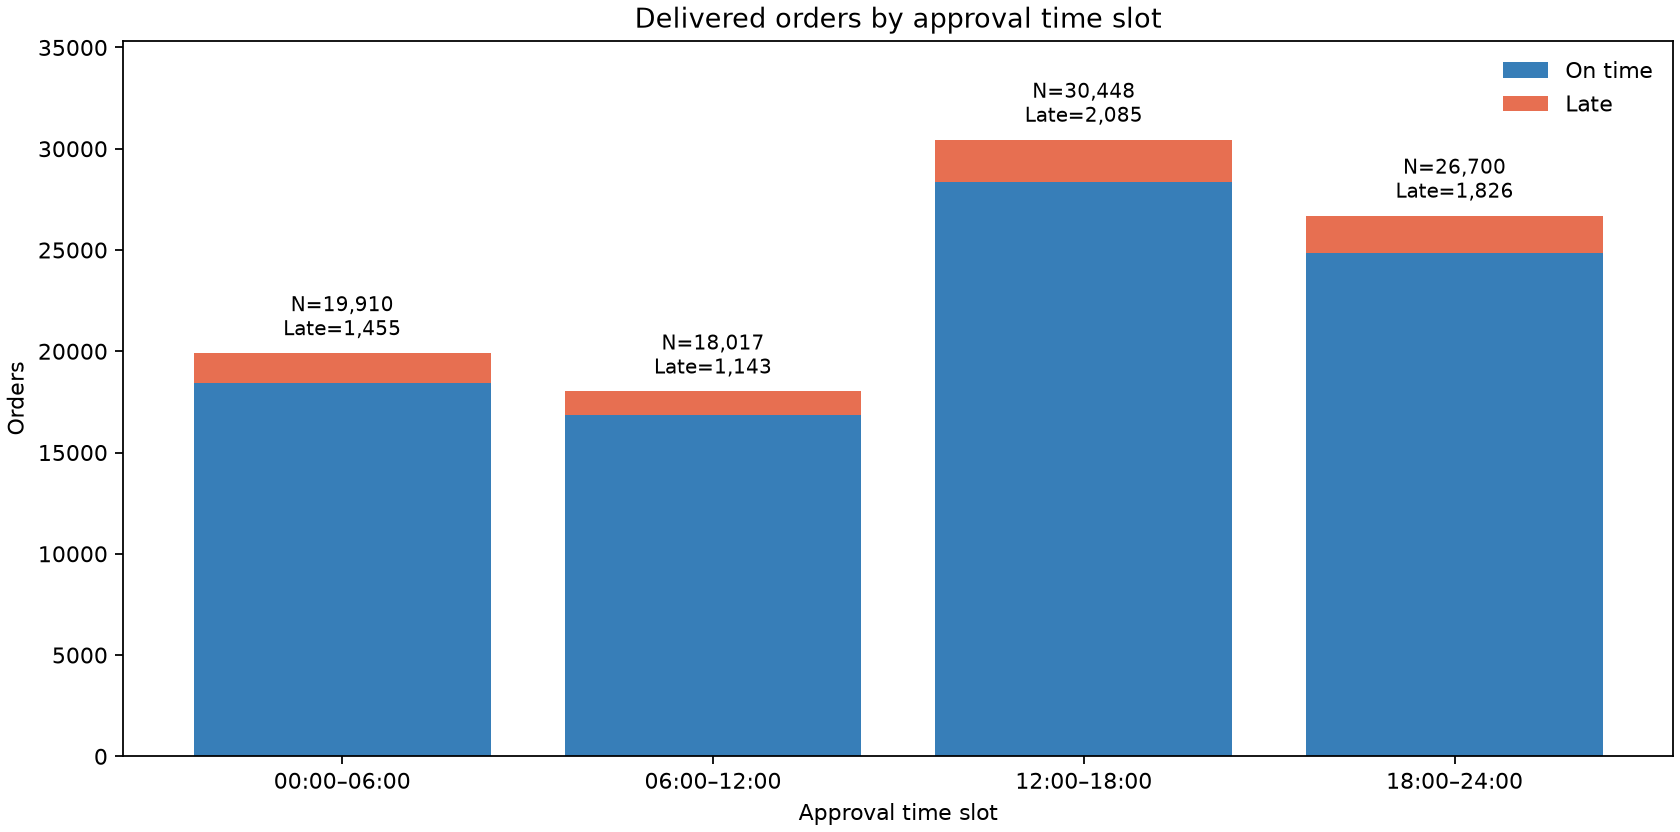
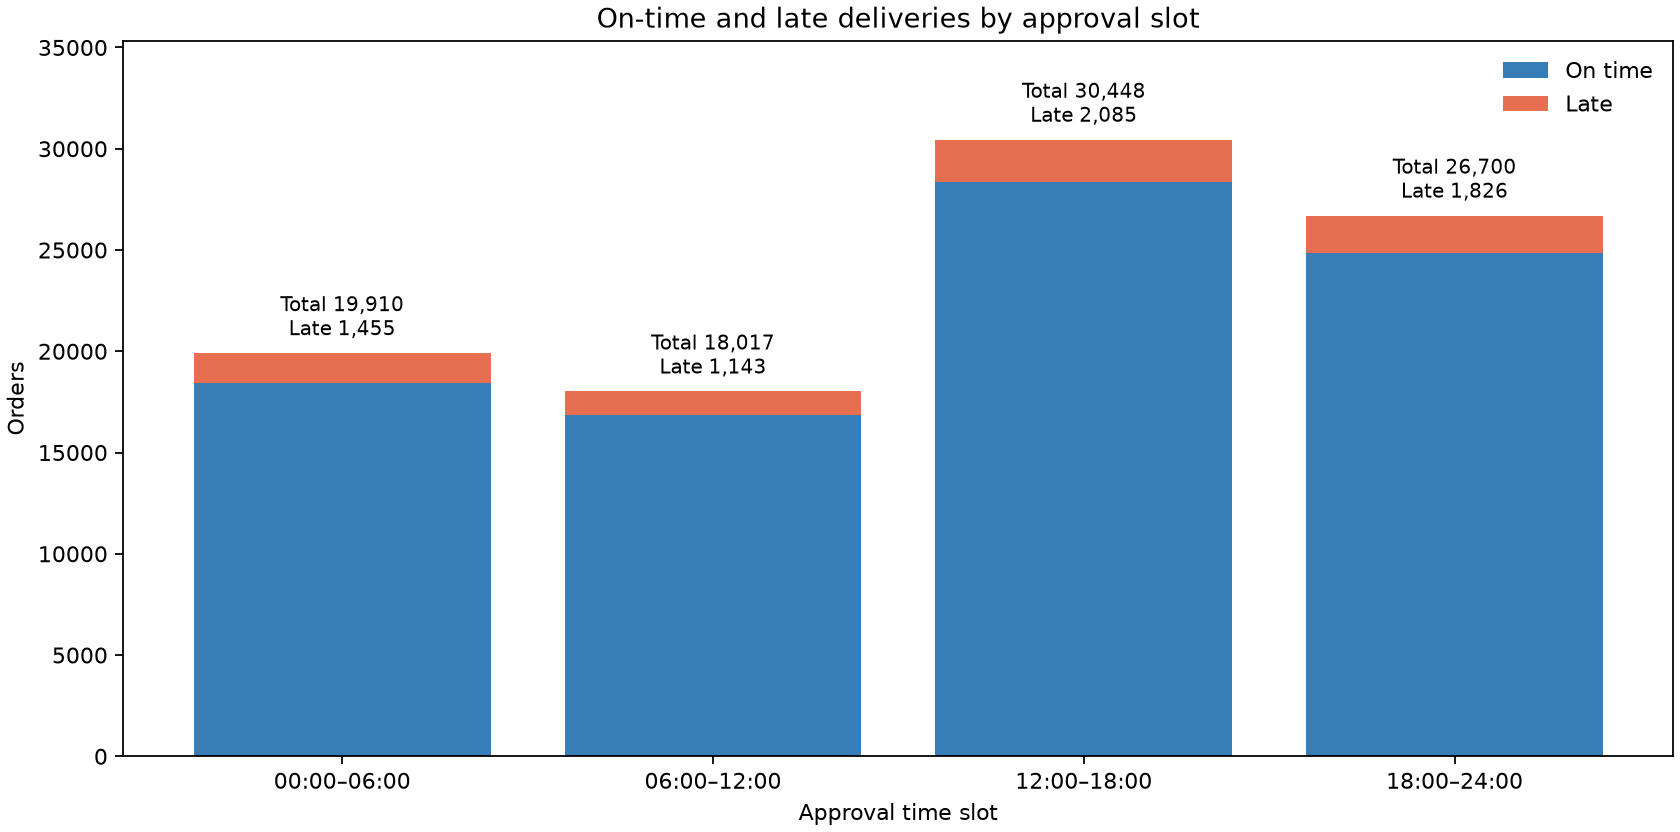
refactor(analysis): clarify figure labels

diff --git a/src/analysis/investigation_plots.py b/src/analysis/investigation_plots.py
@@ -6,6 +6,9 @@ import numpy as np
 from .orders import SLOT_LABELS
 
 
+ELIGIBLE_DAY_NOTE = "Eligible hours count Mon–Fri, excluding 1 Jan, 1 May and 25 Dec (24 hours per full eligible day)."
+
+
 def plot_route_slot_rates(slots):
     """Compare intra/inter late rates with each cell's order denominator."""
     figure, ax = plt.subplots(figsize=(12, 5.8), layout="constrained")
@@ -24,8 +27,10 @@ def plot_route_slot_rates(slots):
                             textcoords="offset points", ha="center", fontsize=8)
     ax.set_xticks(range(len(SLOT_LABELS)), SLOT_LABELS)
     ax.set_xlabel("Approval time slot")
-    ax.set_ylabel("Late orders / route-slot orders (%)")
-    ax.set_title("Late delivery rate by route type and approval slot")
+    ax.set_ylabel("Late deliveries (% of orders)")
+    ax.set_title("Intra-state and inter-state late delivery rates by approval slot")
+    figure.supxlabel("N = orders in each route and slot. Routes compare seller and customer states across all items.",
+                     fontsize=9)
     ax.margins(y=0.18)
     ax.legend(frameon=False)
     return figure
@@ -33,13 +38,13 @@ def plot_route_slot_rates(slots):
 
 def plot_route_transit_time(transit):
     """Compare median carrier-to-customer hours for known single-route groups."""
-    figure, axes = plt.subplots(1, 2, figsize=(12, 5.4), layout="constrained")
+    figure, axes = plt.subplots(1, 2, figsize=(12, 5.4), sharey=True, layout="constrained")
     routes = ("Intra-state", "Inter-state")
     rows = transit.set_index("route_type").reindex(routes)
     colors = ("#377eb8", "#e76f51")
     for ax, column, title in zip(
         axes, ("median_calendar_hours", "median_eligible_hours"),
-        ("Recorded elapsed hours", "Eligible-day hours"),
+        ("Elapsed transit time", "Transit time on eligible days"),
     ):
         values = rows[column].to_numpy(dtype=float, na_value=np.nan)
         ax.bar(routes, values, color=colors, width=0.55)
@@ -54,7 +59,8 @@ def plot_route_transit_time(transit):
         ax.set_title(title)
         ax.set_ylabel("Median hours per evaluated order")
         ax.margins(y=0.18)
-    figure.suptitle("Carrier handoff to customer delivery by route type")
+    figure.suptitle("Median time from carrier handoff to delivery by route type")
+    figure.supxlabel("N = orders with a valid transit interval. " + ELIGIBLE_DAY_NOTE, fontsize=9)
     return figure
 
 
@@ -70,11 +76,13 @@ def plot_monthly_slot_rates(monthly):
     axes[0].set_ylabel("Late orders / slot orders (%)")
     axes[0].set_ylim(bottom=0)
     axes[0].legend(ncols=4, frameon=False)
-    axes[0].set_title("Late rates by purchase month and approval slot")
+    figure.suptitle("Delivery outcomes by purchase month and approval slot")
+    axes[0].set_title("Monthly late delivery rates (full range)")
     axes[1].set_ylim(0, 25)
     axes[1].set_ylabel("Late rate (%)")
-    axes[1].set_title("Rate detail, 0-25% display window; full range above")
+    axes[1].set_title("Monthly late delivery rates (0–25% scale)")
     axes[2].set_ylabel("Orders in slot")
+    axes[2].set_title("Monthly order counts by approval slot")
     axes[2].set_xlabel("Purchase month")
     axes[2].set_xticks(range(len(months)), months, rotation=65)
     return figure
@@ -86,15 +94,17 @@ def plot_matched_years(table):
     for position, year in enumerate((2017, 2018)):
         rows = table.loc[table["year"].eq(year)].set_index("approval_slot").reindex(SLOT_LABELS)
         x = np.arange(4) + (position - 0.5) * 0.36
-        ax.bar(x, rows["late_rate_pct"].fillna(0).to_numpy(dtype=float), width=0.36, label=str(year))
+        ax.bar(x, rows["late_rate_pct"].to_numpy(dtype=float, na_value=np.nan), width=0.36, label=str(year))
         for i, row in enumerate(rows.itertuples()):
-            if row.orders:
-                ax.annotate(f"N={row.orders:,}", (x[i], row.late_rate_pct),
-                            xytext=(0, 4), textcoords="offset points", ha="center", fontsize=8)
+            height = row.late_rate_pct if row.orders else 0
+            ax.annotate(f"N={row.orders:,}", (x[i], height),
+                        xytext=(0, 4), textcoords="offset points", ha="center", fontsize=8)
     ax.set_xticks(range(4), SLOT_LABELS)
     ax.set_xlabel("Approval time slot")
     ax.set_ylabel("Late orders / slot orders (%)")
-    ax.set_title("Same purchase months, January-July")
+    ax.set_title("Late delivery rate by approval slot for January–July purchases in 2017 and 2018")
+    figure.supxlabel("N = orders in each approval slot during the seven purchase months of each year",
+                     fontsize=9)
     ax.margins(y=0.18)
     ax.legend(frameon=False)
     return figure
@@ -102,7 +112,7 @@ def plot_matched_years(table):
 
 def plot_stage_comparison(summary, stage):
     """Compare late and on-time medians using both elapsed-hour conventions."""
-    figure, axes = plt.subplots(1, 2, figsize=(13, 5.3), layout="constrained")
+    figure, axes = plt.subplots(1, 2, figsize=(13, 5.3), sharey=True, layout="constrained")
     for ax, column, title in zip(axes, ("median_calendar_hours", "median_eligible_hours"),
                                 ("Recorded elapsed hours", "Eligible-day hours")):
         for position, late in enumerate((False, True)):
@@ -118,10 +128,14 @@ def plot_stage_comparison(summary, stage):
                                 xytext=(0, 3), textcoords="offset points", ha="center", fontsize=7)
         ax.set_title(title)
         ax.set_xticks(range(4), SLOT_LABELS, rotation=20)
+        ax.set_xlabel("Approval time slot")
         ax.set_ylabel("Median hours per evaluated order")
         ax.margins(y=0.20)
         ax.legend(frameon=False)
-    figure.suptitle(stage)
+    interval = {"Processing": "approval to carrier handoff",
+                "Carrier transit": "carrier handoff to customer delivery"}.get(stage, stage)
+    figure.suptitle(f"Median time from {interval} by approval slot and delivery outcome")
+    figure.supxlabel("N = orders with a valid interval. " + ELIGIBLE_DAY_NOTE, fontsize=9)
     return figure
 
 
@@ -131,10 +145,13 @@ def plot_promised_windows(windows):
     samples = [windows.loc[windows["approval_slot"].eq(slot), "promised_days"].dropna().to_numpy(dtype=float)
                for slot in SLOT_LABELS]
     if any(len(values) for values in samples):
-        ax.boxplot(samples, tick_labels=SLOT_LABELS, showmeans=True)
+        ax.boxplot(samples, tick_labels=SLOT_LABELS, showmeans=True,
+                   meanprops={"marker": "D", "markerfacecolor": "#e76f51", "markeredgecolor": "#e76f51"})
     else:
         ax.text(0.5, 0.5, "No analyzable orders", transform=ax.transAxes, ha="center")
     ax.set_ylabel("Estimated delivery date minus approval date (days)")
     ax.set_xlabel("Approval time slot")
-    ax.set_title("Promised delivery window at approval, full range")
+    ax.set_title("Days from approval to the promised delivery date by approval slot")
+    figure.supxlabel("Box line = median     Diamond = mean     Negative values indicate approval after the promised date.",
+                     fontsize=9)
     return figure

diff --git a/src/analysis/plots.py b/src/analysis/plots.py
@@ -50,13 +50,13 @@ def plot_slot_counts(summary: pd.DataFrame) -> Figure:
     ax.bar(x, summary["late_orders"], bottom=summary["on_time_orders"],
            color=LATE_COLOR, label="Late")
     for position, row in enumerate(summary.itertuples(index=False)):
-        ax.annotate(f"N={row.orders:,}\nLate={row.late_orders:,}",
+        ax.annotate(f"Total {row.orders:,}\nLate {row.late_orders:,}",
                     (position, row.orders), xytext=(0, 5), textcoords="offset points",
                     ha="center", va="bottom", fontsize=9)
     ax.set_xticks(x, summary["approval_slot"])
     ax.set_ylabel("Orders")
     ax.set_xlabel("Approval time slot")
-    ax.set_title("Delivered orders by approval time slot")
+    ax.set_title("On-time and late deliveries by approval slot")
     ax.set_ylim(0, max(summary["orders"].max() * 1.16, 1))
     ax.legend(frameon=False)
     return figure
@@ -71,18 +71,20 @@ def plot_rate_profile(profile: pd.DataFrame, column: str) -> Figure:
         figsize=(14, 5.6) if hourly else (10.5, 5.2), layout="constrained"
     )
     x = profile[column].to_numpy()
-    rates = profile["late_rate_pct"].fillna(0).to_numpy(dtype=float)
+    rates = profile["late_rate_pct"].to_numpy(dtype=float, na_value=np.nan)
     ax.bar(x, rates, color=ON_TIME_COLOR, width=0.78)
     for position, row in enumerate(profile.itertuples(index=False)):
-        if row.orders:
-            ax.annotate(f"N={row.orders:,}", (x[position], rates[position]),
-                        xytext=(0, 4), textcoords="offset points", ha="center",
-                        va="bottom", fontsize=8, rotation=90 if hourly else 0)
+        height = rates[position] if row.orders else 0
+        ax.annotate(f"N={row.orders:,}", (x[position], height),
+                    xytext=(0, 4), textcoords="offset points", ha="center",
+                    va="bottom", fontsize=8, rotation=90 if hourly else 0)
     ax.set_xticks(x, [f"{value:02d}" for value in x] if hourly else WEEKDAYS)
     ax.set_xlabel("Approval hour (recorded clock)" if hourly else "Approval weekday")
-    ax.set_ylabel("Late orders / orders in group (%)")
+    ax.set_ylabel("Late deliveries (% of orders)")
     ax.set_title("Late delivery rate by approval hour" if hourly else
                  "Late delivery rate by approval weekday")
+    figure.supxlabel("N = orders approved in each hour" if hourly else
+                     "N = orders approved on each weekday", fontsize=9)
     ax.set_ylim(0, max(np.nanmax(profile["late_rate_pct"].to_numpy(dtype=float)) *
                        (1.35 if hourly else 1.20), 1) if profile["orders"].sum() else 1)
     return figure
@@ -94,8 +96,10 @@ def plot_hour_weekday_heatmap(cells: pd.DataFrame) -> Figure:
     counts = cells.pivot(index="approval_weekday", columns="approval_hour", values="orders")
     figure, axes = plt.subplots(2, 1, figsize=(15, 8), layout="constrained")
     for ax, values, title, label, cmap in (
-        (axes[0], rate, "Late rate", "% late", "YlOrRd"),
-        (axes[1], counts.where(counts.gt(0)), "Order count", "Orders", "Blues"),
+        (axes[0], rate, "Late delivery rate by approval hour and weekday",
+         "Late deliveries (%)", "Greens"),
+        (axes[1], counts.where(counts.gt(0)), "Orders approved by hour and weekday",
+         "Orders", "Blues"),
     ):
         palette = plt.colormaps[cmap].with_extremes(bad="#eeeeee")
         image = ax.imshow(np.ma.masked_invalid(values.to_numpy(dtype=float)),
@@ -106,6 +110,7 @@ def plot_hour_weekday_heatmap(cells: pd.DataFrame) -> Figure:
         ax.set_ylabel("Approval weekday")
         ax.set_xlabel("Approval hour (recorded clock)")
         figure.colorbar(image, ax=ax, label=label)
+    figure.supxlabel("Grey cells have no orders. Rates use all orders in each cell.", fontsize=9)
     return figure
 
 
@@ -116,18 +121,23 @@ def plot_delay_distribution(orders: pd.DataFrame) -> Figure:
                for slot in SLOT_LABELS]
     figure, axes = plt.subplots(1, 2, figsize=(13, 5.6), layout="constrained")
     observed = [values for values in samples if len(values)]
+    titles = ("Days late across the full distribution", "Days late up to the pooled 99th percentile")
+    for ax, title in zip(axes, titles):
+        ax.set_title(title)
+        ax.set_xlabel("Approval time slot")
+        ax.set_ylabel("Calendar days past the promised date")
     if not observed:
         for ax in axes:
             ax.text(0.5, 0.5, "No late orders", ha="center", va="center", transform=ax.transAxes)
     else:
-        for ax, title in zip(axes, ("Full range", "Up to the 99th percentile")):
+        for ax in axes:
             ax.boxplot(samples, tick_labels=SLOT_LABELS, showmeans=True,
                        meanprops={"marker": "D", "markerfacecolor": LATE_COLOR,
                                   "markeredgecolor": LATE_COLOR})
-            ax.set_title(title)
-            ax.set_ylabel("Calendar days late among late orders")
             ax.tick_params(axis="x", rotation=25)
         p99 = float(np.percentile(np.concatenate(observed), 99))
-        axes[1].set_ylim(0, max(p99 * 1.05, 1))
+        axes[1].set_ylim(0, p99)
+        figure.supxlabel("Box line = median     Diamond = mean     Circles = values beyond the whiskers",
+                         fontsize=9)
     figure.suptitle("Delay duration by approval time slot (late orders only)")
     return figure
